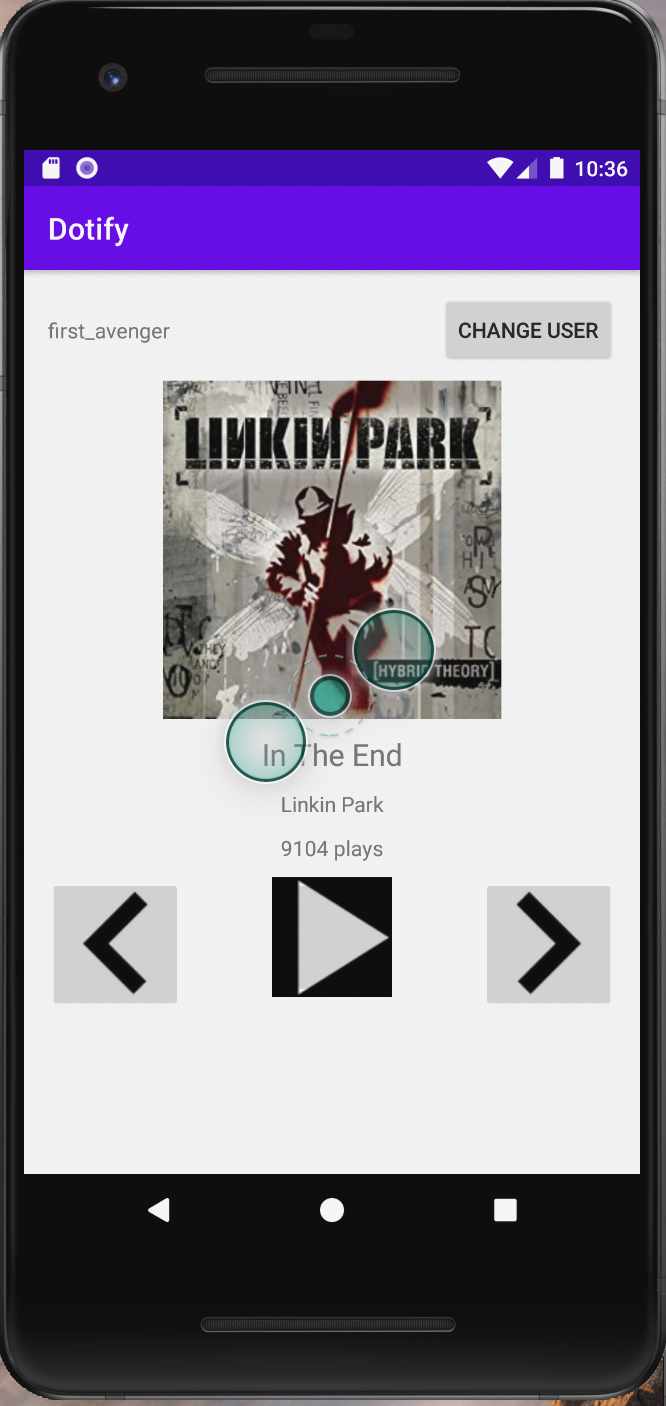
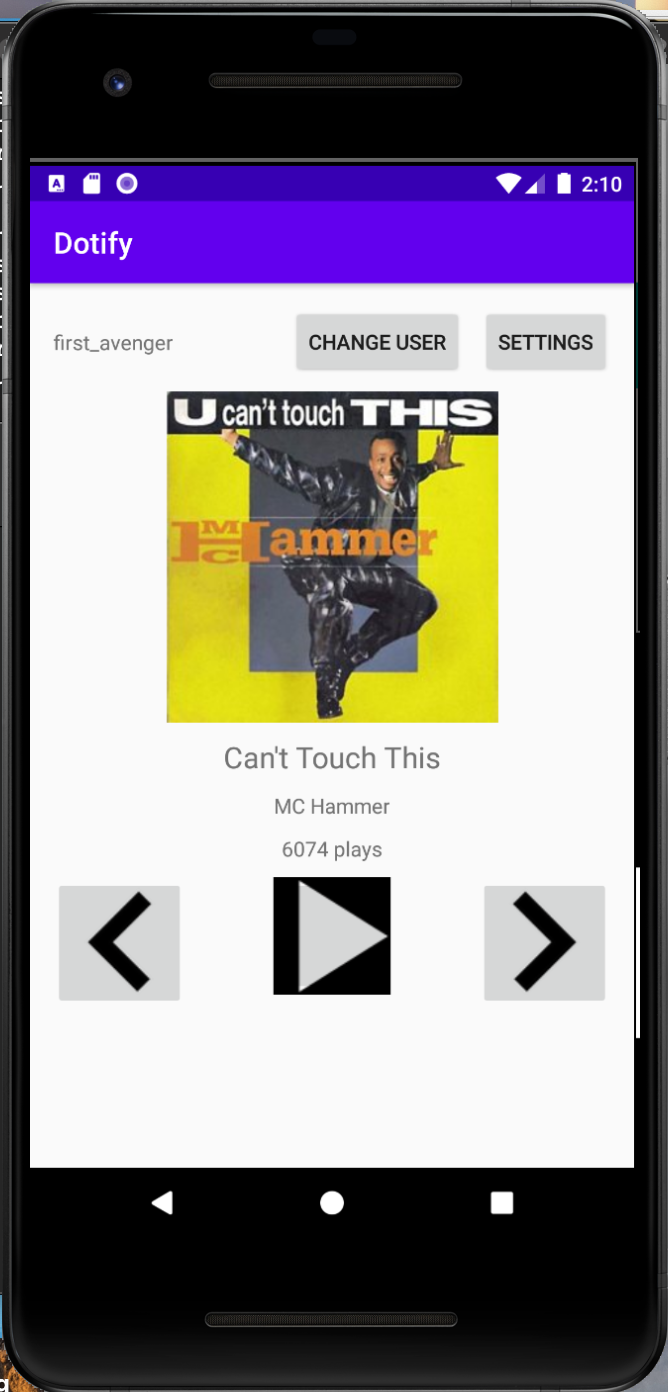
Final

Changed region(s): [[0.0, 0.0, 1.0, 1.0], [0.3003, 0.9267, 0.6907, 0.9576], [0.991, 0.8958, 1.0, 0.9267]]

diff --git a/app/src/main/java/com/example/dotify/SettingsFragment.kt b/app/src/main/java/com/example/dotify/SettingsFragment.kt
@@ -21,6 +21,7 @@ class SettingsFragment : Fragment() {
     override fun onCreateView(inflater: LayoutInflater, container: ViewGroup?, savedInstanceState: Bundle?): View? {
         val binding = FragmentSettingsBinding.inflate(inflater)
 
+        title = "Settings"
         with(binding) {
 
             profileButton.setOnClickListener{

diff --git a/README.md b/README.md
@@ -9,9 +9,14 @@ This app provides a platform where people listen to music on the cloud!
 I have completed extra credit #1.
 
 ## Screenshots
-Song List with Mini Player |  Main Player
-:-------------------------:|:-------------------------:
-<img src="img/rvImage.png" alt="Screenshot of the app" height="500" />  |  <img src="img/mainImage.png" alt="Screenshot of the app" height="500" />
+Song List with Mini Player |  Main Player              | Settings                 | Statistics                | Profile                   | About
+:-------------------------:|:-------------------------:|-------------------------:|:-------------------------:|:-------------------------:|:-------------------------:|:
+<img src="img/rvImage.png" alt="Screenshot of the app" height="500" />  |  
+<img src="img/mainImage.png" alt="Screenshot of the app" height="500" /> |
+<img src="img/settingsImage.png" alt="Screenshot of the app" height="500" />  | 
+<img src="img/statsImage.png" alt="Screenshot of the app" height="500" />  | 
+<img src="img/profileImage.png" alt="Screenshot of the app" height="500" />  | 
+<img src="img/aboutImage.png" alt="Screenshot of the app" height="500" />  | 
 
 
 ## Installation & Usage
